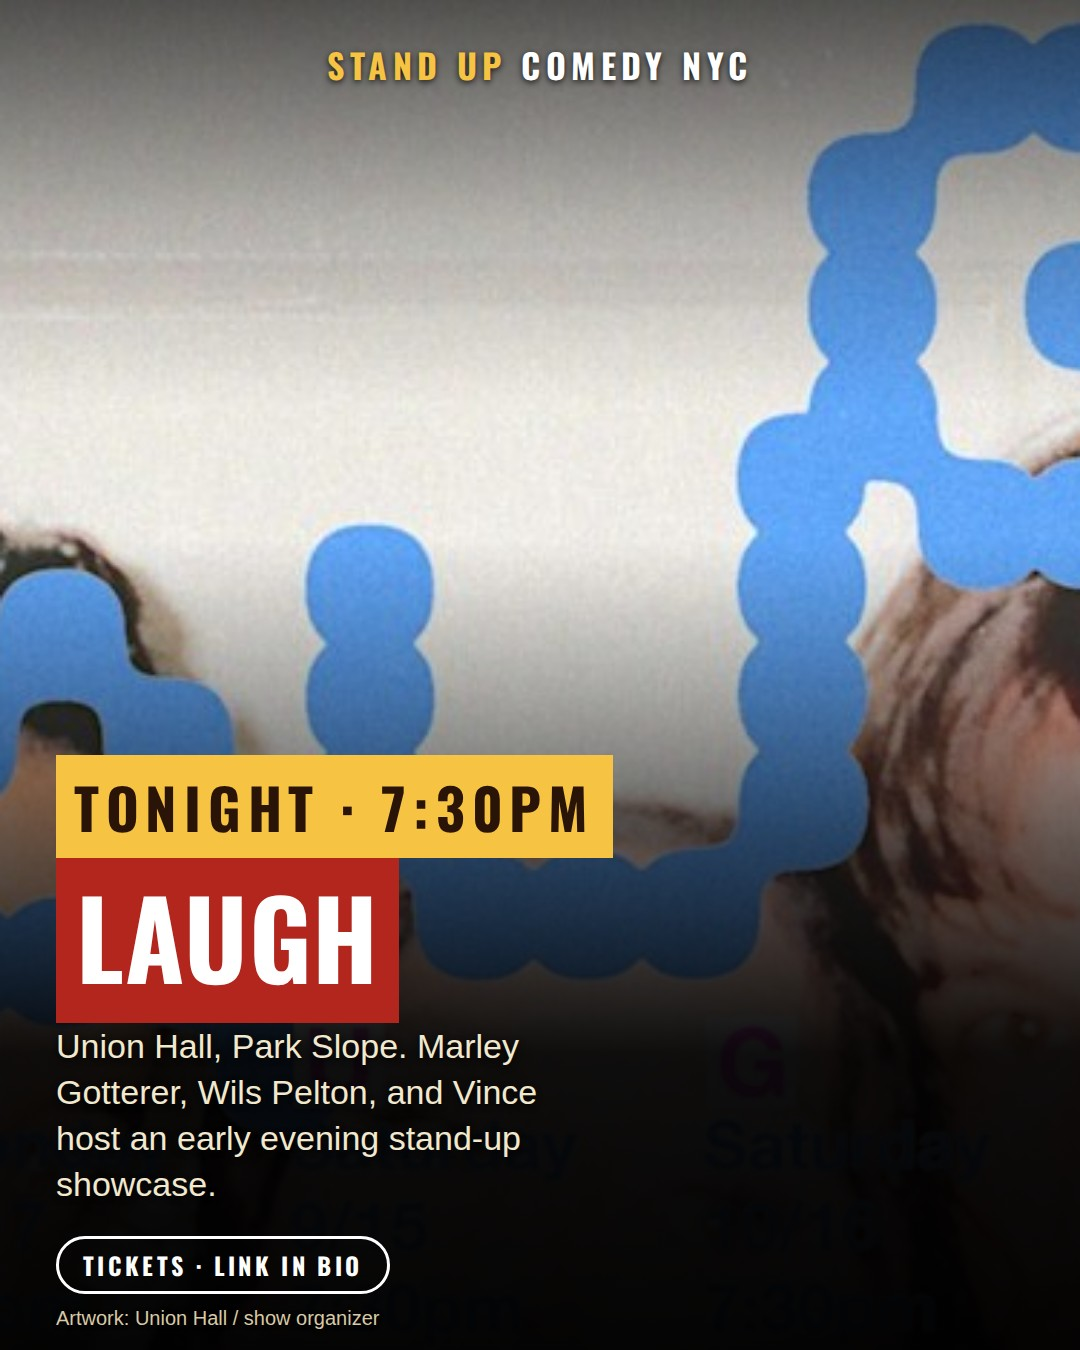
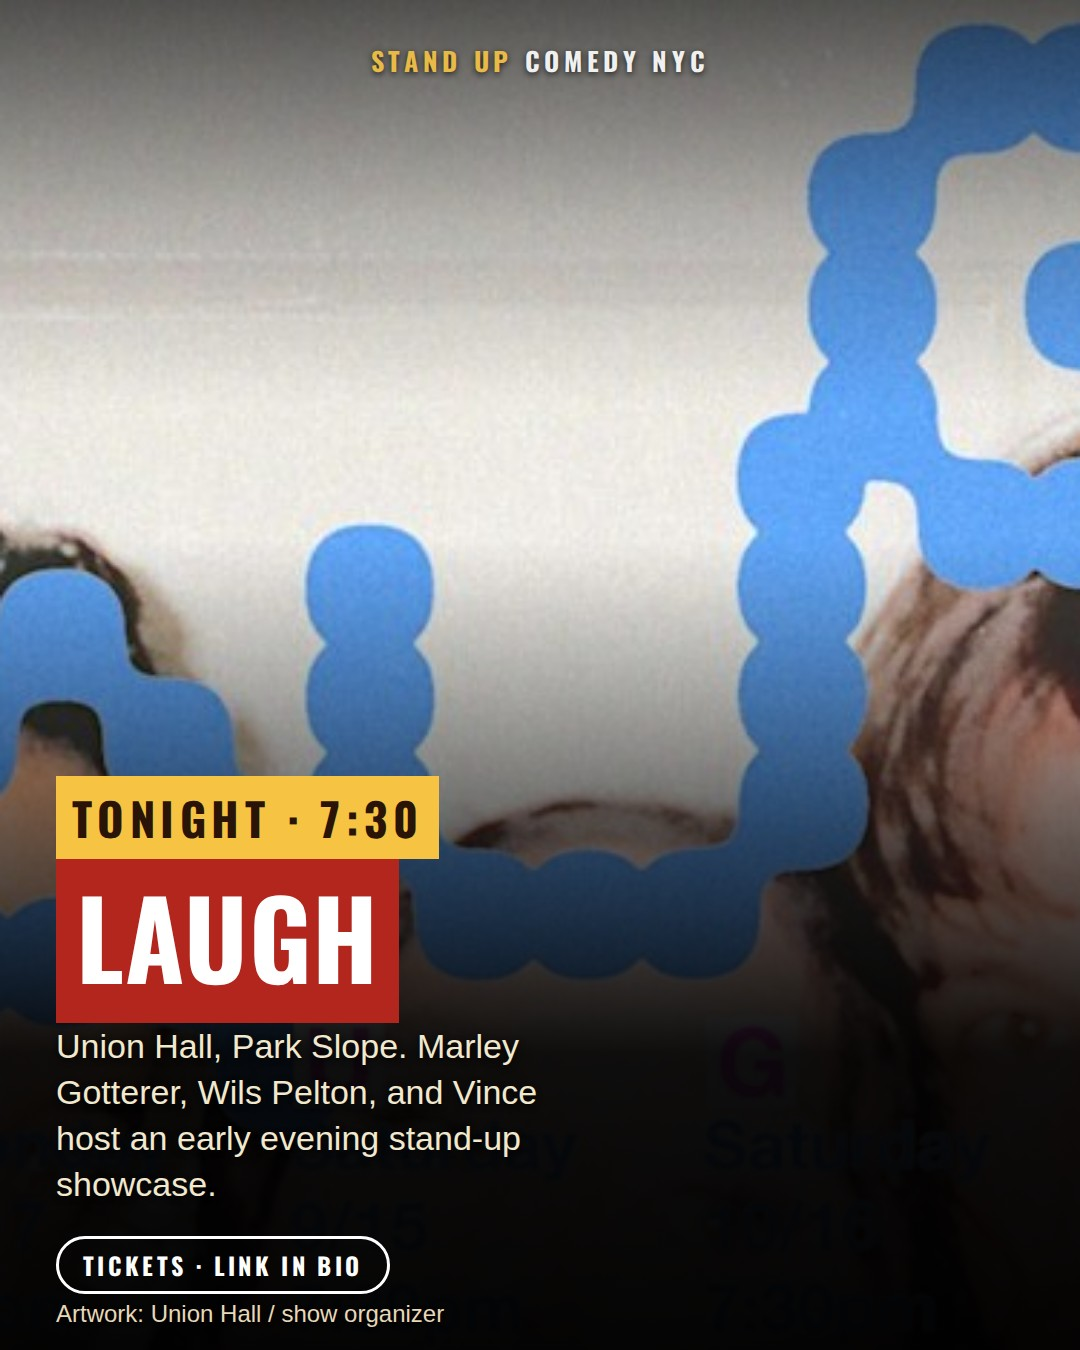
IG: editorial cover hook and itinerary, smaller time tab, quieter brand line, performer name out of the headline, editorial caption

Changed region(s): [[0.0306, 0.56, 0.5806, 0.6533], [0.3056, 0.0311, 0.7028, 0.0622], [0.0611, 0.9644, 0.3972, 0.9956]]

diff --git a/scripts/ig-card.js b/scripts/ig-card.js
@@ -94,16 +94,17 @@ body:before{content:'';position:absolute;inset:0;background:radial-gradient(elli
 .photo{position:absolute;inset:0;background-size:cover;background-position:center 30%}
 .photo:after{content:'';position:absolute;inset:0;background:linear-gradient(180deg,#000000a6 0%,#00000040 16%,#0000 30%,#0000 40%,#00000099 62%,#000000f0 78%,#000000fa 100%)}
 .pw{position:relative;height:100%;display:flex;flex-direction:column;padding:48px 56px 56px;color:#fff}
-.lock{align-self:center;font:700 34px/1 Oswald;letter-spacing:.16em;text-transform:uppercase;color:#f6c343;text-shadow:0 2px 6px #000c}
+.lock{align-self:center;font:700 26px/1 Oswald;letter-spacing:.18em;text-transform:uppercase;color:#f6c343;text-shadow:0 2px 6px #000c;opacity:.9}
 .lock span{color:#fff}
 .hl{margin-top:auto;font:700 var(--hs,84px)/1.32 Oswald;text-transform:uppercase;letter-spacing:.005em}
 .hl i{font-style:normal;background:#b3261e;color:#fff;padding:4px 20px 8px;-webkit-box-decoration-break:clone;box-decoration-break:clone}
-.hl i.gold{background:#f6c343;color:#2a1408;font-size:.52em;letter-spacing:.12em;padding:10px 18px;position:relative;top:-.35em}
+.hl i.gold{background:#f6c343;color:#2a1408;font-size:.42em;letter-spacing:.12em;padding:8px 16px;position:relative;top:-.35em}
 .dek{margin-top:18px;font:400 34px/1.35 Arial,sans-serif;color:#f1e8ce;text-shadow:0 2px 6px #000c;max-width:26ch}
 .pill{margin-top:28px;display:inline-block;align-self:flex-start;border:3px solid #fff;color:#fff;font:700 24px/1 Oswald;letter-spacing:.14em;text-transform:uppercase;padding:14px 24px;border-radius:40px;text-shadow:none}
 .tag2{position:absolute;top:120px;right:56px;background:#b3261e;color:#fff;font:700 30px/1 Oswald;letter-spacing:.12em;text-transform:uppercase;padding:14px 20px;transform:rotate(3deg)}
 .tag2.gold{background:#f6c343;color:#2a1408}
-.credit2{position:absolute;left:56px;bottom:22px;font:20px/1 Arial,sans-serif;color:#d9c9a5;text-shadow:0 1px 4px #000}
+.credit2{position:absolute;left:56px;bottom:24px;font:24px/1 Arial,sans-serif;color:#e6d8b8;text-shadow:0 1px 4px #000}
+.stack{margin-top:18px;font:700 40px/1.3 Oswald;text-transform:uppercase;letter-spacing:.02em;color:#fff;text-shadow:0 2px 6px #000c}.stack span{color:#f6c343;font-weight:500;margin-left:12px}
 </style>`;
 
 const titleSize = (t) => { const byLen = t.length > 60 ? 88 : t.length > 40 ? 104 : t.length > 24 ? 128 : t.length > 14 ? 150 : 176; const longest = Math.max(...t.split(/\s+/).map((w) => w.length)); const byWord = Math.floor(800 / (0.56 * longest)); return Math.min(byLen, byWord); };
@@ -122,26 +123,33 @@ function pickCard(p) {
 <div class="foot"><span class="url">standupcomedynyc.com</span><span class="note">Link in bio</span></div></div>`;
 }
 
+const clock = (p) => { const t = p.time_label.split(' · ')[0]; return t.includes(':') ? t.replace(/\s*(am|pm)$/i, '') : t; };
+const splitTitle = (t) => { const m = t.match(/^([A-Z][\w.'\-]+(?:\s[A-Z][\w.'\-]+){0,3}):\s+(.{4,})$/); return m ? { who: m[1], what: m[2] } : { who: '', what: t }; };
 const hlSize = (t) => t.length > 48 ? 66 : t.length > 32 ? 76 : t.length > 20 ? 92 : 108;
 function photoCard(p) {
   const src = path.join(web, p.poster.src.replace(/^\//, ''));
   const bg = dataUrl(src, 'image/' + p.poster.src.split('.').pop().replace('jpg', 'jpeg'));
   const tag = p.demand === 'sold_out' ? '<div class="tag2">Sold out</div>' : p.demand === 'going_fast' ? '<div class="tag2 gold">Going fast</div>' : p.sponsored ? '<div class="tag2 gold">Paid listing</div>' : '';
-  const when = (p.date === nyDate() ? 'Tonight' : shortDate(p.date)) + ' · ' + p.time_label.split(' · ')[0];
+  const when = (p.date === nyDate() ? 'Tonight' : shortDate(p.date)) + ' · ' + clock(p);
+  const t = splitTitle(p.title);
   return `${base}<div class="photo" style="background-image:url(${bg})"></div><div class="pw"><div class="lock">Stand Up <span>Comedy NYC</span></div>${tag}
-<div class="hl" style="--hs:${hlSize(p.title)}px"><i class="gold">${esc(when)}</i><br><i>${esc(p.title)}</i></div>
-<p class="dek">${esc(dek(p))}</p>
+<div class="hl" style="--hs:${hlSize(t.what)}px"><i class="gold">${esc(when)}</i><br><i>${esc(t.what)}</i></div>
+<p class="dek">${t.who ? esc(t.who) + ' · ' : ''}${esc(dek(p))}</p>
 <div class="pill">Tickets · link in bio</div><div class="credit2">${esc(p.poster.credit || '')}</div></div>`;
 }
 function photoCover(label, day, list) {
-  const hero = [...list].filter((p) => p.poster).sort((a, b) => (Number(b.poster.width) * Number(b.poster.height)) - (Number(a.poster.width) * Number(a.poster.height)) || (Number(b.poster.height) >= Number(b.poster.width) ? 1 : 0) - (Number(a.poster.height) >= Number(a.poster.width) ? 1 : 0))[0];
+  const area = (p) => Number(p.poster.width) * Number(p.poster.height);
+  const rank = (p) => (p.sponsored ? 8 : 0) + (p.featured ? 4 : 0) + (p.demand === 'sold_out' ? 2 : p.demand === 'going_fast' ? 3 : 0) + (p.big_stage ? 1 : 0);
+  const hero = [...list].filter((p) => p.poster).sort((a, b) => rank(b) - rank(a) || area(b) - area(a))[0];
   if (!hero) return coverCard(label, day, list);
   const bg = dataUrl(path.join(web, hero.poster.src.replace(/^\//, '')), 'image/' + hero.poster.src.split('.').pop().replace('jpg', 'jpeg'));
-  const n = list.length; const names = list.slice(0, 4).map((p) => p.title.split(':')[0]).join(' · ') + (n > 4 ? ` · +${n - 4}` : '');
-  const head = label === 'Tonight' ? `${n} show${n === 1 ? '' : 's'} worth leaving the house for tonight` : `${n} show${n === 1 ? '' : 's'} worth the train this weekend`;
+  const n = list.length;
+  const weekday = new Intl.DateTimeFormat('en-US', { timeZone: 'America/New_York', weekday: 'long' }).format(new Date(day + 'T12:00:00-04:00'));
+  const head = label === 'Tonight' ? `${n} show${n === 1 ? '' : 's'} worth your ${weekday}` : `${n} show${n === 1 ? '' : 's'} worth the train this weekend`;
+  const stack = list.slice(0, 5).map((p) => `<div>${esc(splitTitle(p.title).who || p.title.split(':')[0])}<span>${esc(clock(p))}${p.demand === 'sold_out' ? ' · sold out' : ''}</span></div>`).join('') + (n > 5 ? `<div>+${n - 5} more</div>` : '');
   return `${base}<div class="photo" style="background-image:url(${bg})"></div><div class="pw"><div class="lock">Stand Up <span>Comedy NYC</span></div>
 <div class="hl" style="--hs:${hlSize(head)}px"><i class="gold">${esc(shortDate(day))}</i><br><i>${esc(head)}</i></div>
-<p class="dek">${esc(names)}</p><div class="pill">Swipe for the picks</div><div class="credit2">${esc(hero.poster.credit || '')}</div></div>`;
+<div class="stack">${stack}</div><div class="pill">Swipe for the picks</div><div class="credit2">${esc(hero.poster.credit || '')}</div></div>`;
 }
 function coverCard(label, day, list) {
   const n = Math.min(list.length, 5); const maxLen = Math.max(...list.slice(0, n).map((p) => p.title.length));

diff --git a/scripts/ig-post.js b/scripts/ig-post.js
@@ -84,7 +84,12 @@ async function publish(kind, items, caption, meta) {
   return result.id;
 }
 const alreadyToday = (pickIds, kind) => log.find((e) => e.kind === kind && e.posted_at.slice(0, 10) === new Date().toISOString().slice(0, 10) && (e.picks || []).some((p) => pickIds.includes(p)));
-const hashtags = '#nyccomedy #standupnyc #comedynyc #thingstodonyc';
+const hashtags = '#nyccomedy #nycstandup #brooklyncomedy #standupnyc';
+const blurb = (p) => { const d = String(p.description || '').trim(); const m = d.match(/^[^.!?]{12,110}[.!?]/); if (m) return m[0]; if (d.length <= 12) return ''; const first = (d.match(/^[^.!?]+/) || [d])[0]; const head = first.slice(0, 112); let cut = -1; for (const sep of [' with ', ' featuring ', ' plus ', ', ', ' and ']) { const i = head.lastIndexOf(sep); if (i > 40 && i > cut) cut = i; } return (cut > 0 ? head.slice(0, cut) : head.slice(0, head.lastIndexOf(' '))).replace(/[,;:\s]+$/, '') + '.'; };
+const clock = (p) => { const t = p.time_label.split(' · ')[0]; return t.includes(':') ? t.replace(/\s*(am|pm)$/i, '') : t; };
+const weekdayOf = (day) => new Intl.DateTimeFormat('en-US', { timeZone: 'America/New_York', weekday: 'long' }).format(new Date(day + 'T12:00:00-04:00'));
+const p0 = (list) => [...new Set(list.map((p) => p.neighborhood))].slice(0, 3).join(' and ');
+const bets = (n) => n === 1 ? 'One good bet.' : n === 2 ? 'Two good bets.' : n === 3 ? 'Three good bets.' : `${n} good bets.`;
 const credits = (list) => { const c = [...new Set(list.filter((p) => p.poster && p.poster.credit).map((p) => p.poster.credit.replace(/^(Artwork|Photo|Poster):\s*/i, '')))]; return c.length ? `\n\nArt: ${c.join(' · ')}` : ''; };
 
 (async () => {
@@ -104,7 +109,7 @@ const credits = (list) => { const c = [...new Set(list.filter((p) => p.poster &&
     if (missing.length) { console.error(`ig-post: cards not rendered yet: ${missing.join(', ')} (run npm run ig-card -- --tonight, commit and push first)`); process.exit(1); }
     const kind = args.story ? 'story' : 'carousel';
     if (!dryRun && alreadyToday(list.map((p) => p.id), kind)) { console.error('ig-post: tonight already posted today'); process.exit(1); }
-    const caption = args.caption || `Tonight in NYC, ${longDate(day)}:\n\n${list.map((p) => `${p.time_label.split(' · ')[0]} ${p.title} at ${p.venue}${p.sponsored ? ' (paid listing)' : ''}`).join('\n')}\n\nTickets and the full board at standupcomedynyc.com, link in bio.${credits(list)}\n\n${hashtags}`;
+    const caption = args.caption || `${weekdayOf(day)} night. ${bets(list.length)}\n\n${list.map((p) => `${clock(p)} — ${p.title.toUpperCase()}\n${p.venue}, ${p.neighborhood}${p.demand === 'sold_out' ? ' · sold out' : p.demand === 'going_fast' ? ' · going fast' : ''}${p.sponsored ? ' · paid listing' : ''}\n${blurb(p)}`).join('\n\n')}\n\nFull board + tickets → link in bio. NYC comedy tonight, ${p0(list)}.${credits(list)}\n\n${hashtags}`;
     await publish(kind, args.story ? [cardUrl(ids[0])] : ids.map(cardUrl), caption, { picks: list.map((p) => p.id), date: day });
     return;
   }
